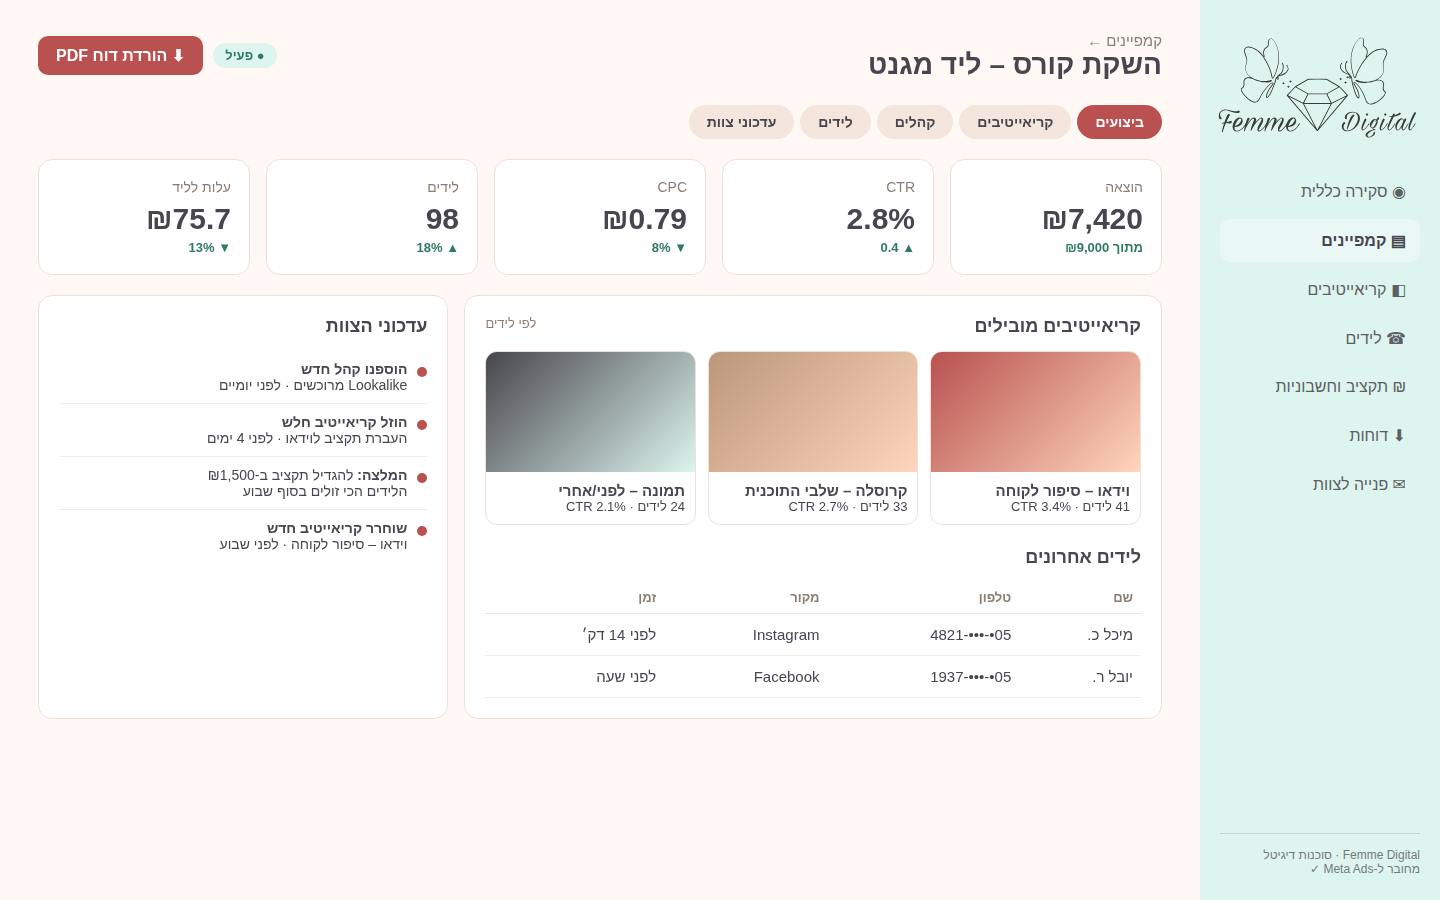
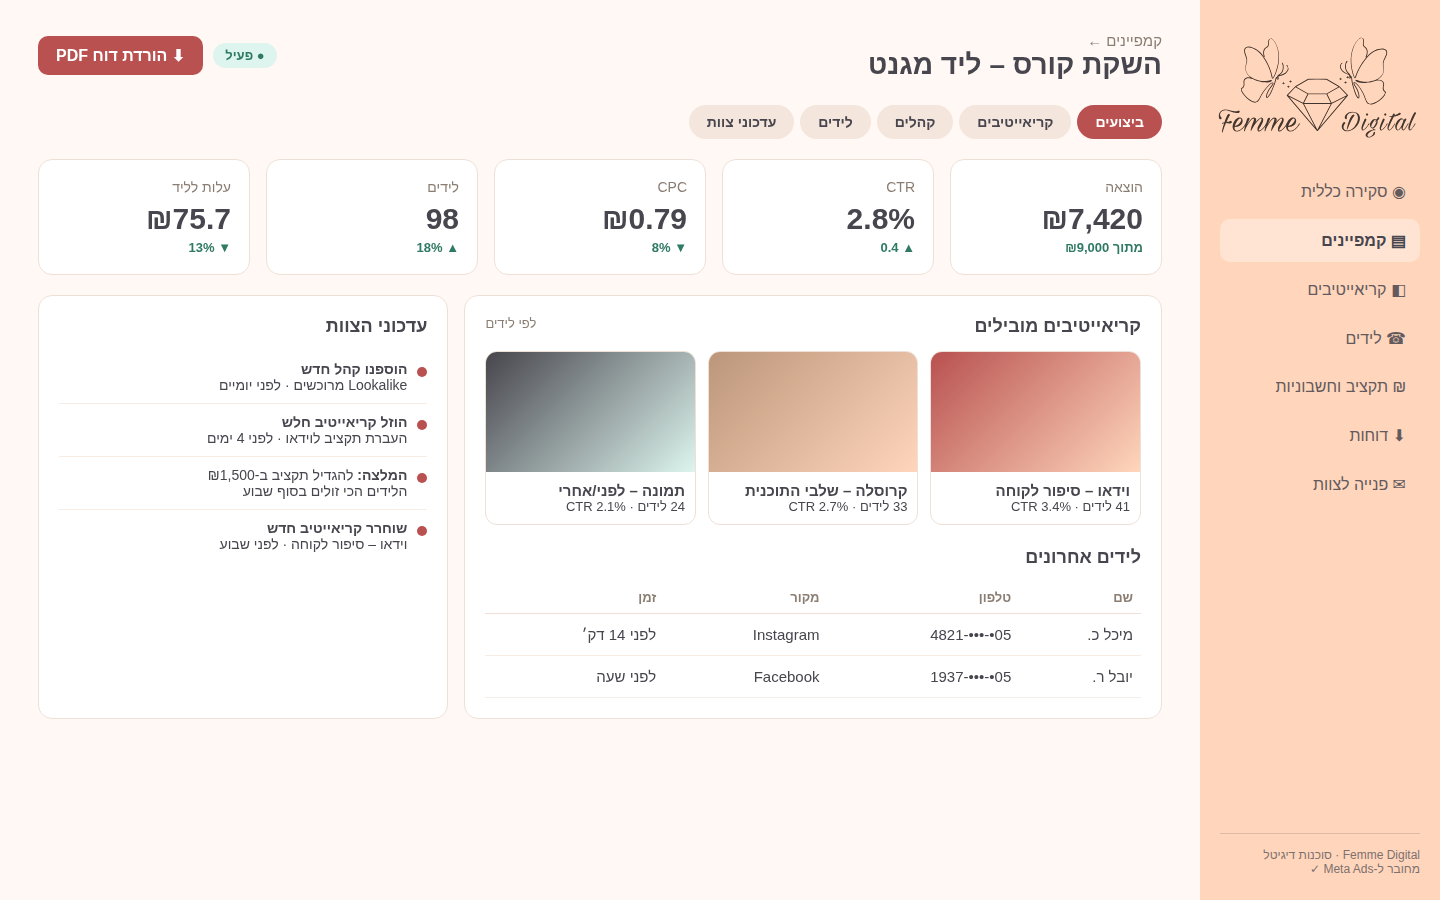
Peach sidebar and creatives screen in portal mockups
Claude-Session: https://claude.ai/code/session_01SHgaQ2tZapowtJVSgU9cgx

Changed region(s): [[0.8125, 0.0, 1.0, 1.0]]

diff --git a/mockups/portal.html b/mockups/portal.html
@@ -19,7 +19,7 @@
 .box .btn{width:100%;margin-top:26px}.pw{margin-top:22px;text-align:center;color:var(--mut);font-size:13px}
 /* app */
 .app{display:grid;grid-template-columns:240px 1fr;height:100%}
-.side{background:#ddf5ee;color:#47454d;padding:28px 20px}.side .logo{margin-bottom:30px}
+.side{background:#ffd6bc;color:#47454d;padding:28px 20px}.side .logo{margin-bottom:30px}
 .side a{display:flex;gap:12px;padding:12px 14px;border-radius:10px;margin-bottom:6px;font-size:16px;opacity:.85}.side a.on{background:#ffffff59;opacity:1;font-weight:700}
 .side .pam{position:absolute;bottom:24px;font-size:12px;opacity:.7;width:200px;border-top:1px solid #47454d40;padding-top:14px}
 .main{padding:30px 38px;overflow:hidden}
@@ -36,7 +36,12 @@ table{width:100%;border-collapse:collapse;font-size:15px}th{color:var(--mut);fon
 .creat{display:grid;grid-template-columns:repeat(3,1fr);gap:12px}.cr{border-radius:12px;overflow:hidden;border:1px solid var(--line);background:#fff}.cr .im{height:120px}.cr div+div{padding:10px;font-size:13px}.cr b{display:block;font-size:15px}
 .tl{font-size:14px}.tl p{padding:10px 0;border-bottom:1px solid #f6ece4;display:flex;gap:10px}.tl p:last-child{border:0}.dot{width:10px;height:10px;border-radius:50%;background:var(--o);margin-top:6px;flex:none}
 .tabs{display:flex;gap:6px;margin-bottom:20px}.tabs span{padding:9px 18px;border-radius:99px;background:#f4e6dc;color:var(--b);font-size:14px;font-weight:700}.tabs .on{background:var(--g);color:#fff}
-</style></head><body>
+.cc{background:#fff;border:1px solid var(--line);border-radius:14px;overflow:hidden}.ci{height:210px;position:relative;overflow:hidden}
+.tp{position:absolute;top:10px;right:10px;background:#47454dd9;color:#fff;font-size:12px;padding:3px 10px;border-radius:99px}
+.st{position:absolute;top:10px;left:10px;font-size:12px;font-weight:700;padding:3px 10px;border-radius:99px}.st.win{background:#ddf5ee;color:#2f7a64}.st.ok{background:#ffd6bc;color:#47454d}.st.bad{background:#f6dcdc;color:#b85150}
+.cb{padding:12px 14px}.cb>b{font-size:16px}.m{display:flex;justify-content:space-between;margin-top:10px;font-size:12px;color:var(--mut)}.m span b{display:block;font-size:17px;color:var(--ink);margin-top:2px}
+.chips{display:flex;gap:8px;margin-bottom:18px;align-items:center}.chips span{padding:8px 16px;border-radius:99px;border:1px solid var(--line);background:#fff;font-size:14px;color:var(--b)}.chips .on{background:#47454d;color:#fff;border-color:#47454d}.chips .sp{margin-right:auto;border:0;background:none;color:var(--mut)}
+.cg{display:grid;grid-template-columns:repeat(4,1fr);gap:16px}</style></head><body>
 
 <!-- 1 LOGIN -->
 <div class="screen" id="s1"><div class="login">
@@ -98,4 +103,10 @@ table{width:100%;border-collapse:collapse;font-size:15px}th{color:var(--mut);fon
 <p><span class="dot"></span><span><b>המלצה:</b> להגדיל תקציב ב-₪1,500<br>הלידים הכי זולים בסוף שבוע</span></p>
 <p><span class="dot"></span><span><b>שוחרר קריאייטיב חדש</b><br>וידאו – סיפור לקוחה · לפני שבוע</span></p></div></div>
 </div></div></div>
-</body></html>
+<div class="screen" id="s4"><div class="app"><div class="side"><div class="logo"><img src="assets/brand-sheet.png"></div>
+<a>◉ סקירה כללית</a><a>▤ קמפיינים</a><a class="on">◧ קריאייטיבים</a><a>☎ לידים</a><a>₪ תקציב וחשבוניות</a><a>⬇ דוחות</a><a>✉ פנייה לצוות</a>
+<div class="pam">Femme Digital · סוכנות דיגיטל<br>מחובר ל-Meta Ads ✓</div></div>
+<div class="main">
+<div class="top"><div><h1>קריאייטיבים</h1><div class="sub">כל המודעות שרצות בקמפיינים שלכם · נמשך מ-Meta</div></div><div class="user"><span class="badge m">● מחובר ל-Meta</span><div class="av">ד</div></div></div>
+<div class="chips"><span class="on">הכל · 8</span><span>וידאו</span><span>תמונה</span><span>קרוסלה</span><span class="sp">מיון: לידים ▾</span></div>
+<div class="cg"><div class="cc"><div class="ci" style="background:#fff"><img src="assets/brand-sheet.png" style="position:absolute;width:1906px;left:-424px;top:-1570px;max-width:none;"><span class="tp">תמונה</span><span class="st win">מנצח</span></div><div class="cb"><b>עבודה מהבית</b><div class="m"><span>לידים<b>48</b></span><span>CTR<b>3.1%</b></span><span>עלות לליד<b>₪61</b></span></div></div></div><div class="cc"><div class="ci" style="background:#fff"><img src="assets/brand-sheet.png" style="position:absolute;width:1920px;left:-697px;top:-1582px;max-width:none;"><span class="tp">תמונה</span><span class="st win">מנצח</span></div><div class="cb"><b>פרחים וספר</b><div class="m"><span>לידים<b>37</b></span><span>CTR<b>2.8%</b></span><span>עלות לליד<b>₪72</b></span></div></div></div><div class="cc"><div class="ci" style="background:#fff"><img src="assets/brand-sheet.png" style="position:absolute;width:1920px;left:-964px;top:-1582px;max-width:none;"><span class="tp">קרוסלה</span><span class="st ok">יציב</span></div><div class="cb"><b>שולחן עבודה</b><div class="m"><span>לידים<b>29</b></span><span>CTR<b>2.4%</b></span><span>עלות לליד<b>₪84</b></span></div></div></div><div class="cc"><div class="ci" style="background:#fff"><img src="assets/brand-sheet.png" style="position:absolute;width:1751px;left:-1134px;top:-1434px;max-width:none;"><span class="tp">וידאו</span><span class="st ok">יציב</span></div><div class="cb"><b>בוקר עם קפה</b><div class="m"><span>לידים<b>22</b></span><span>CTR<b>2.2%</b></span><span>עלות לליד<b>₪91</b></span></div></div></div><div class="cc"><div class="ci" style="background:#ddf5ee"><img src="assets/brand-sheet.png" style="position:absolute;width:2376px;left:-507px;top:-1569px;max-width:none;mix-blend-mode:multiply;"><span class="tp">תמונה</span><span class="st ok">בלמידה</span></div><div class="cb"><b>מגפון – הרשמה</b><div class="m"><span>לידים<b>18</b></span><span>CTR<b>1.9%</b></span><span>עלות לליד<b>₪97</b></span></div></div></div><div class="cc"><div class="ci" style="background:#ffd6bc"><img src="assets/brand-sheet.png" style="position:absolute;width:2376px;left:-1235px;top:-1486px;max-width:none;mix-blend-mode:multiply;"><span class="tp">וידאו</span><span class="st bad">חלש</span></div><div class="cb"><b>רקטה – השקה</b><div class="m"><span>לידים<b>14</b></span><span>CTR<b>1.6%</b></span><span>עלות לליד<b>₪108</b></span></div></div></div><div class="cc"><div class="ci" style="background:#ddf5ee"><img src="assets/brand-sheet.png" style="position:absolute;width:2376px;left:-1074px;top:-1349px;max-width:none;mix-blend-mode:multiply;"><span class="tp">קרוסלה</span><span class="st bad">חלש</span></div><div class="cb"><b>פרפר – מותג</b><div class="m"><span>לידים<b>11</b></span><span>CTR<b>1.4%</b></span><span>עלות לליד<b>₪119</b></span></div></div></div><div class="cc"><div class="ci" style="background:#fbeee7"><img src="assets/brand-sheet.png" style="position:absolute;width:2376px;left:-1365px;top:-1351px;max-width:none;mix-blend-mode:multiply;"><span class="tp">תמונה</span><span class="st bad">חלש</span></div><div class="cb"><b>פרח – רימרקטינג</b><div class="m"><span>לידים<b>9</b></span><span>CTR<b>1.3%</b></span><span>עלות לליד<b>₪126</b></span></div></div></div></div></div></div></div></body></html>
